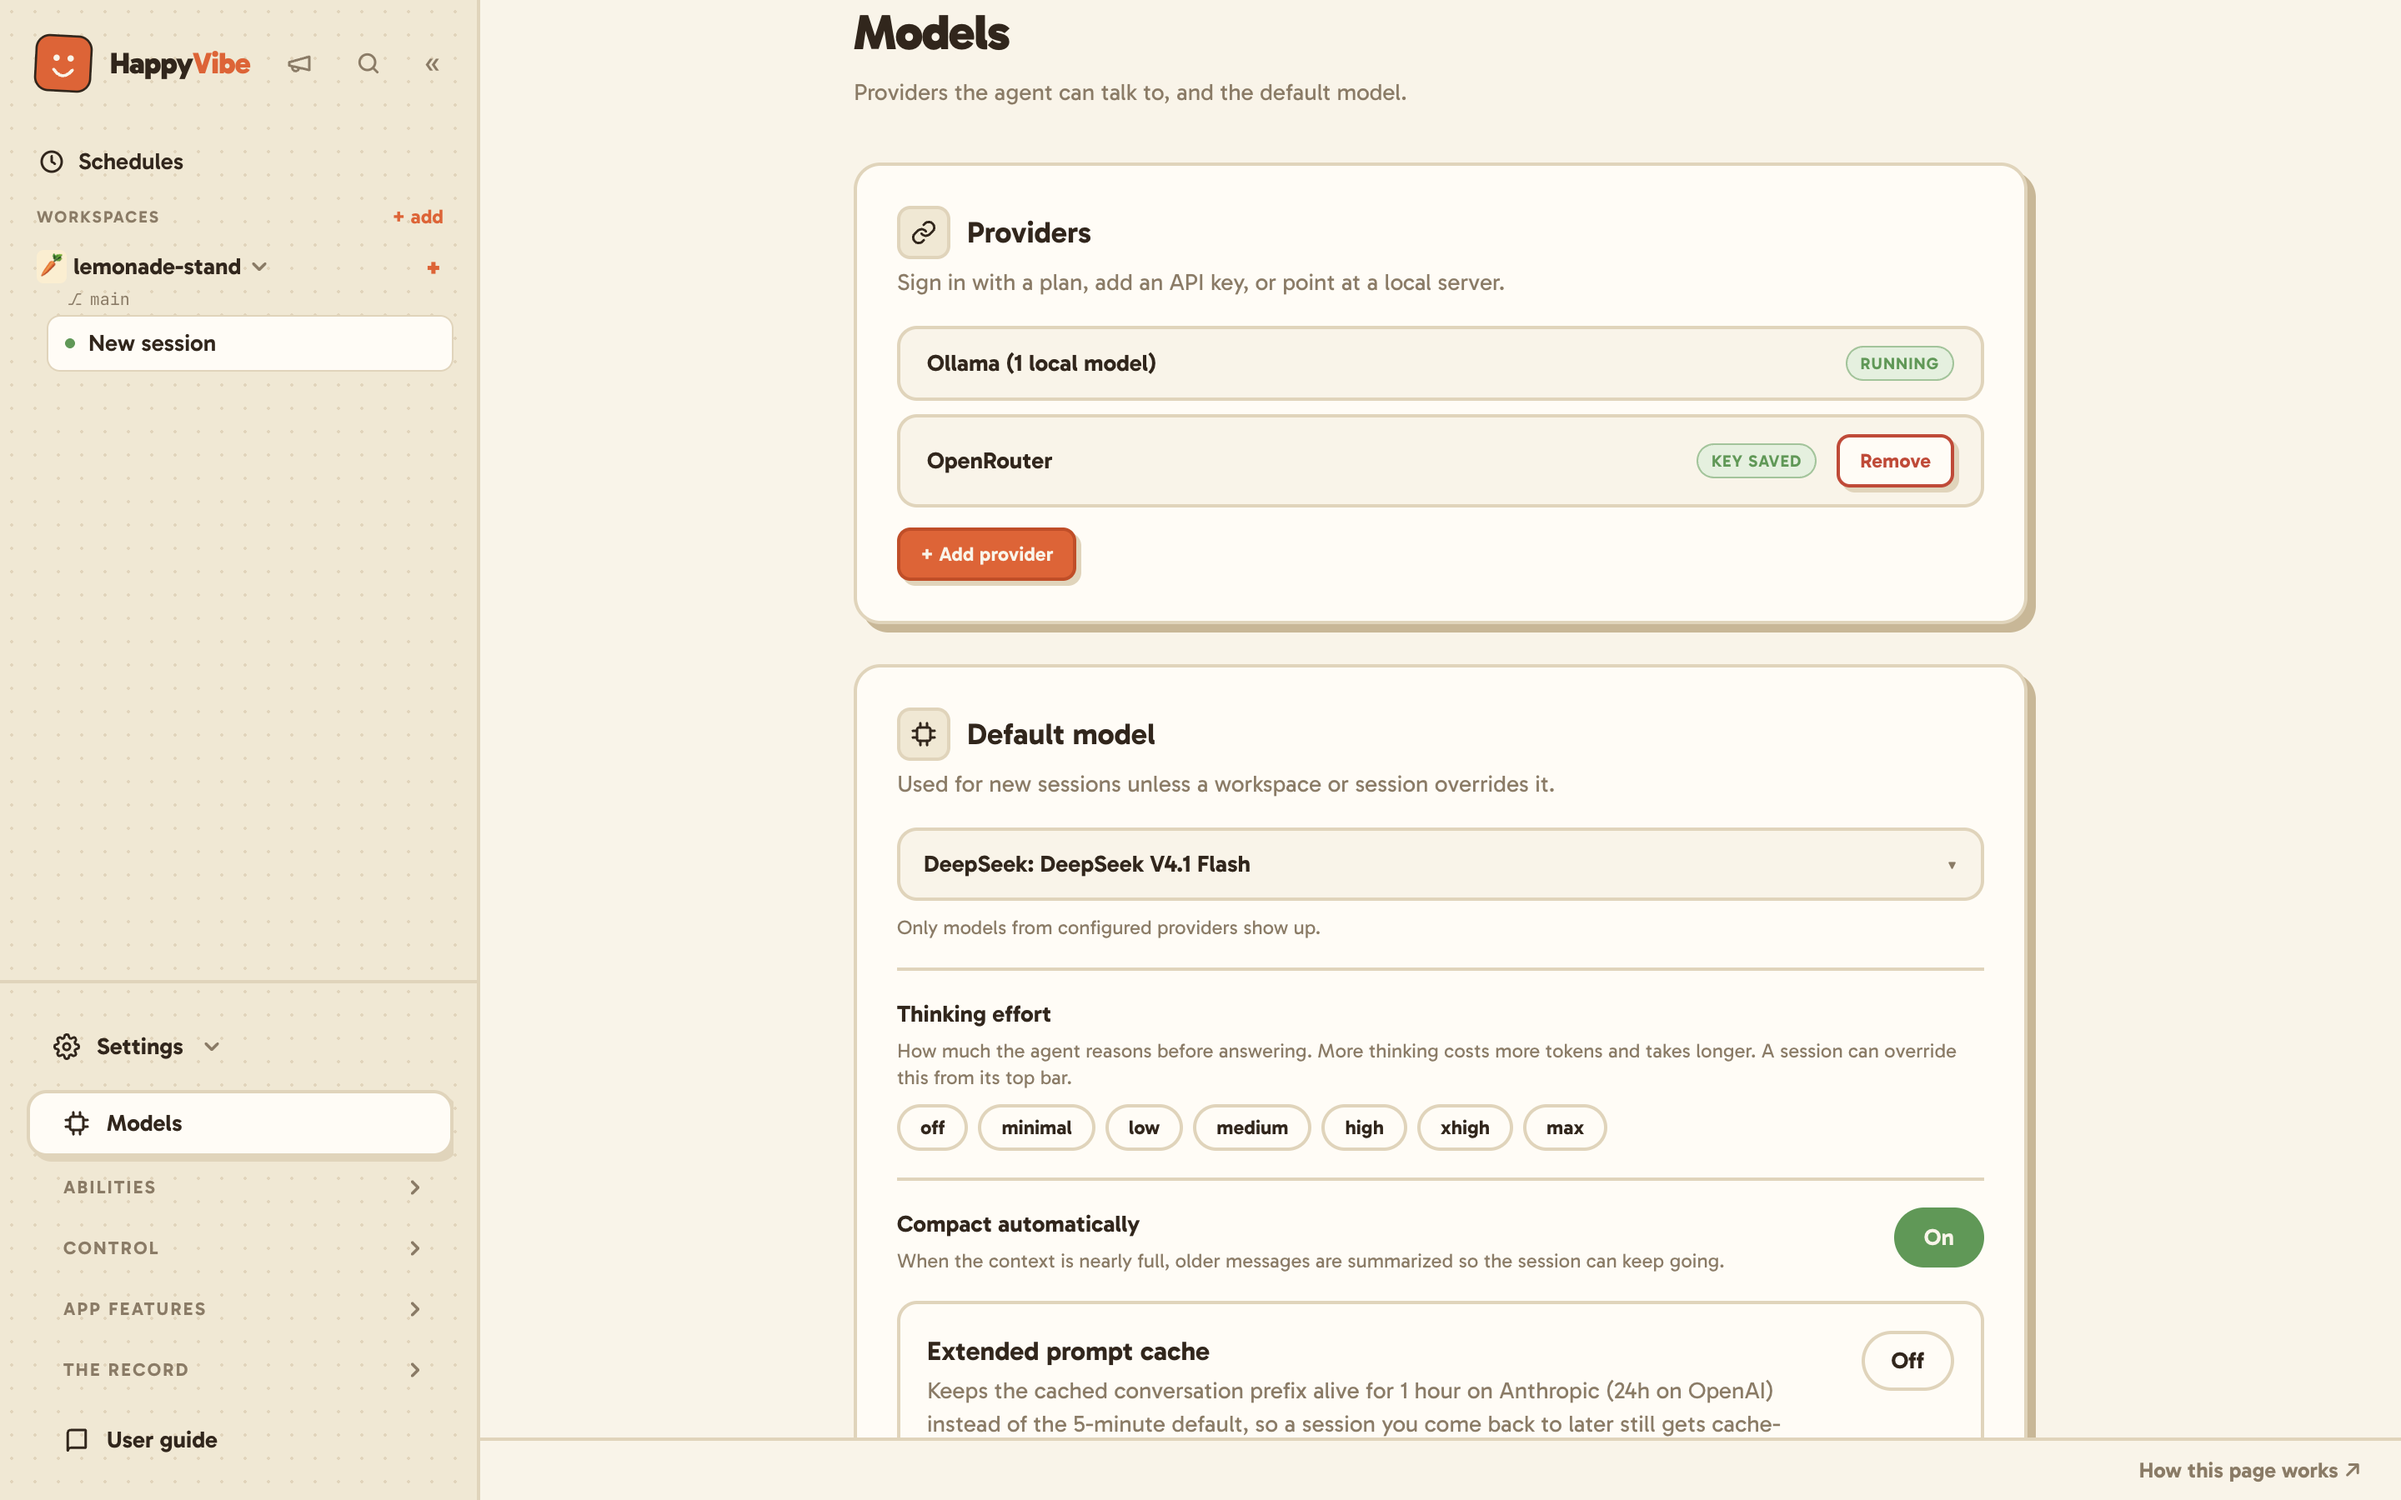
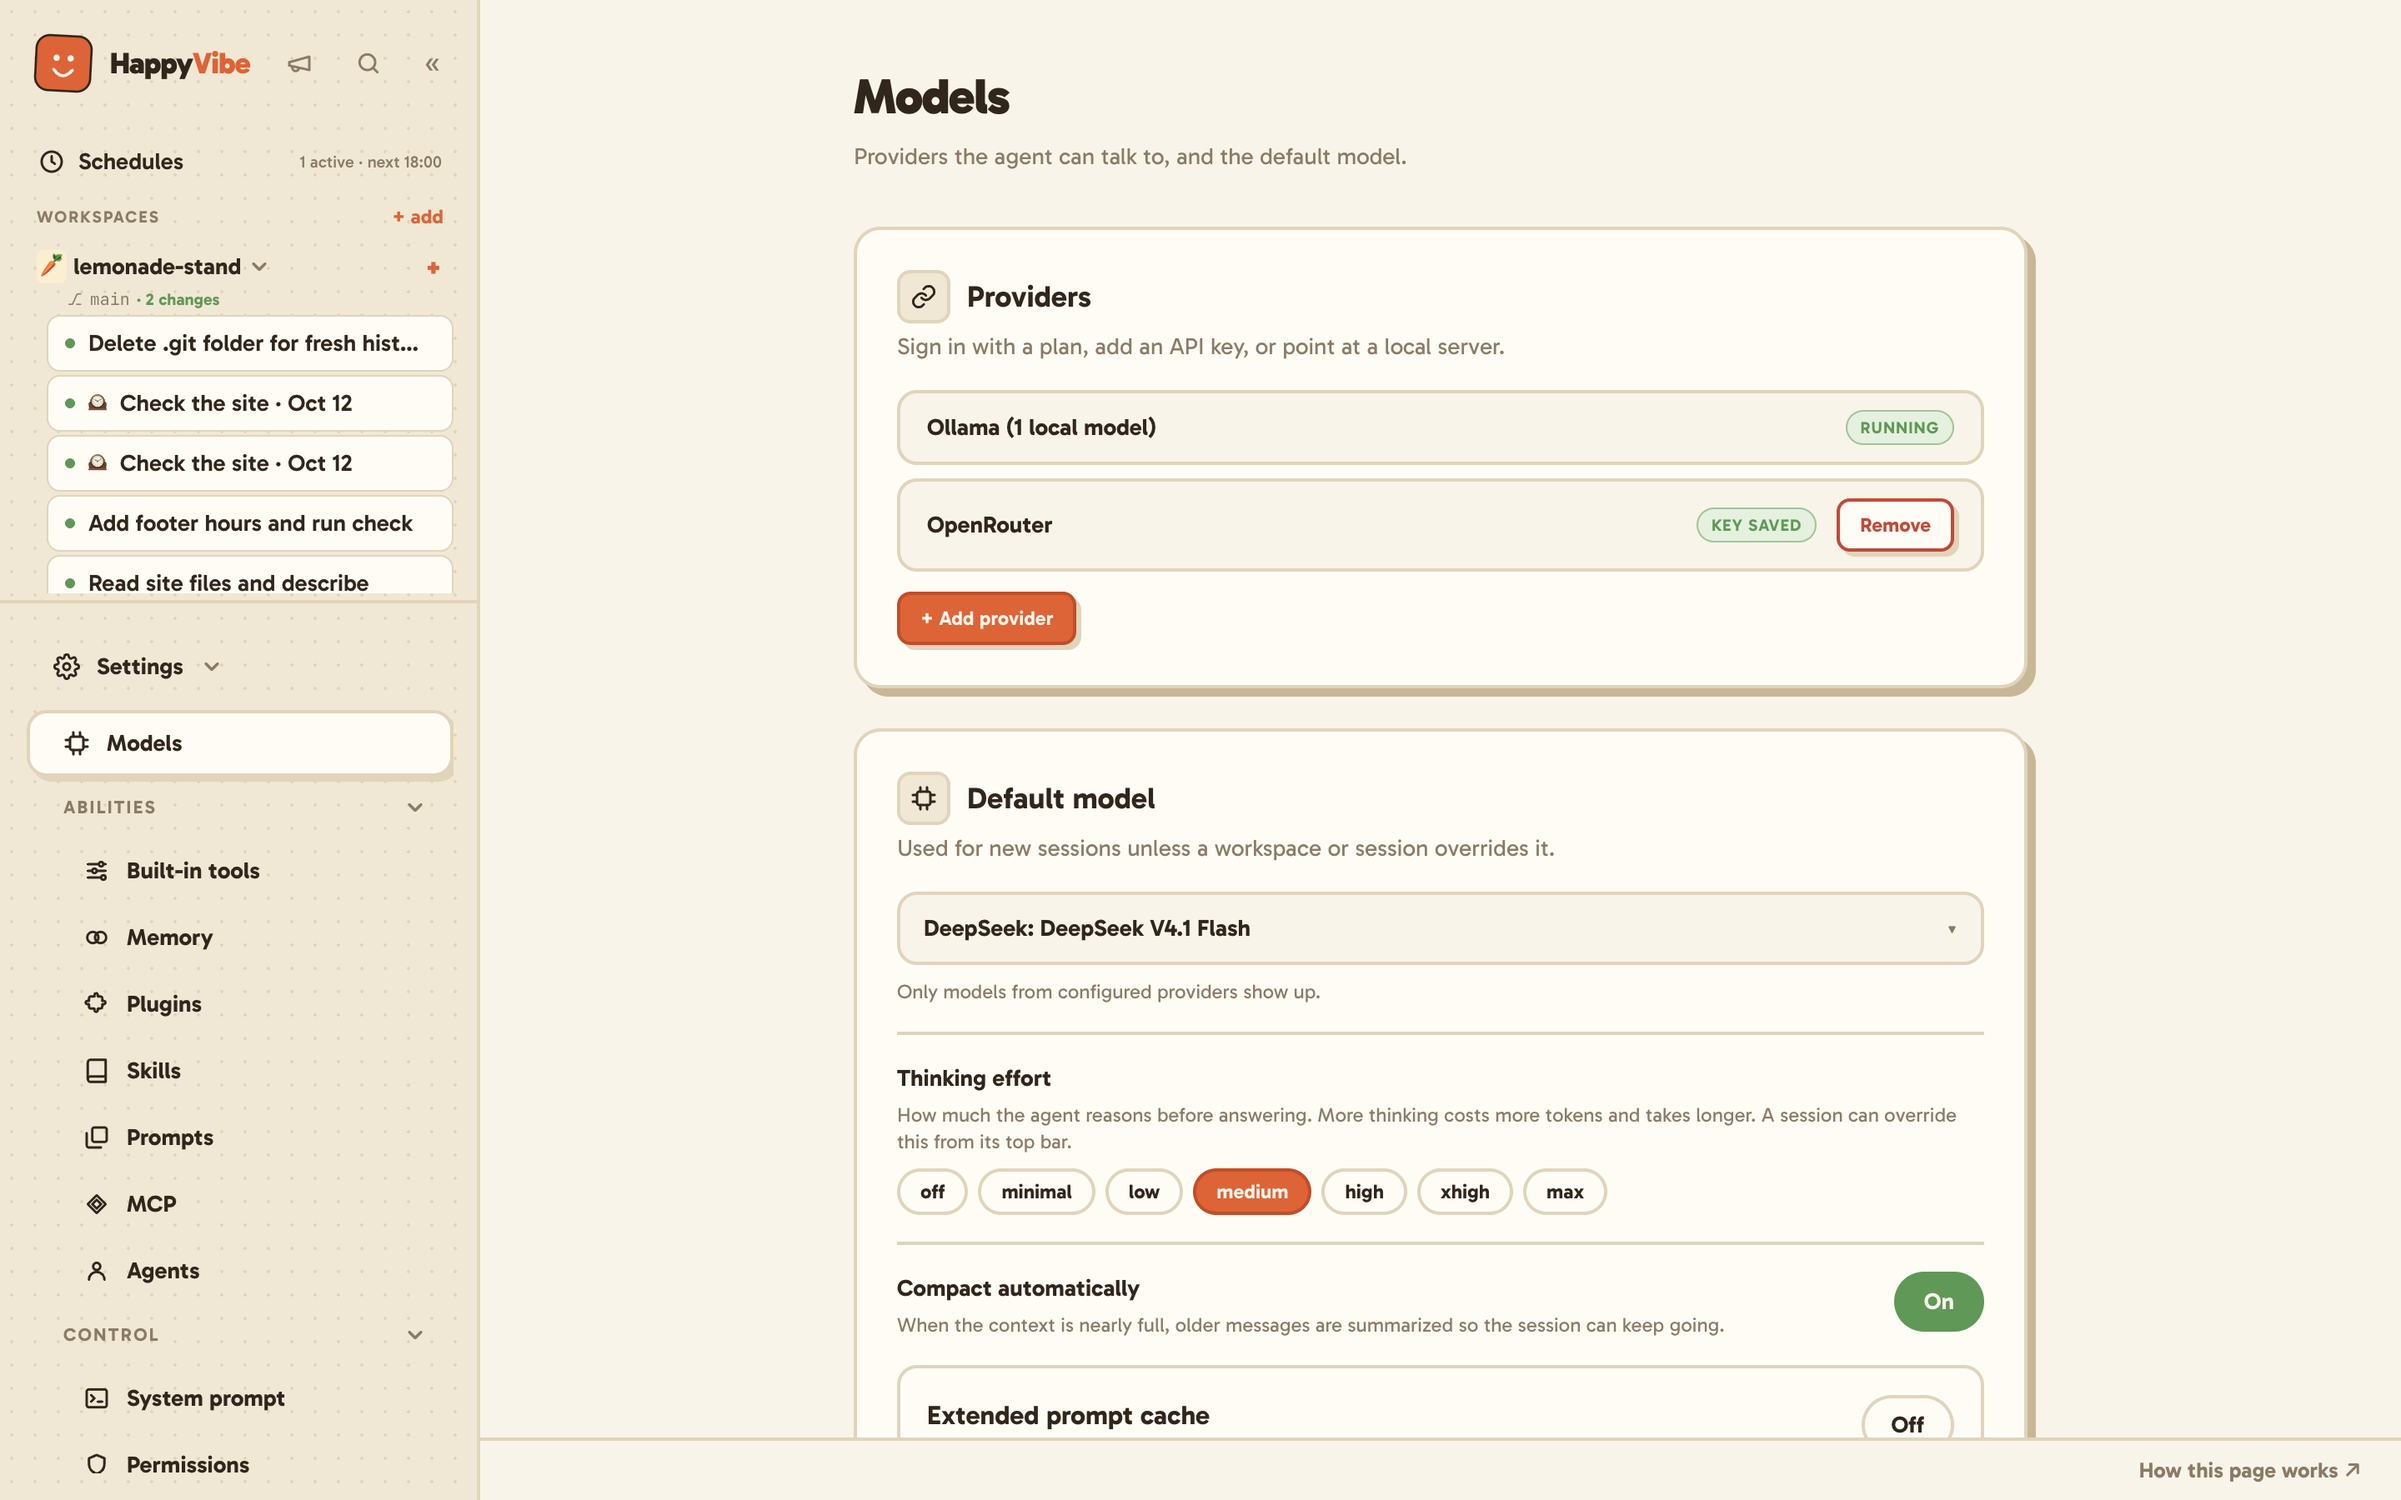
Docs: act on the media review (Models re-shot with an effort pill, alt text that matches what each shot shows, placement)
Claude-Session: https://claude.ai/code/session_01RNVPYdwePGix3NzdbdH7jW

diff --git a/.claude/rules/docs.md b/.claude/rules/docs.md
@@ -48,11 +48,11 @@ paths:
   | `install/install-smartscreen.png` | `install` | Windows SmartScreen after clicking More info, with Run anyway visible |
   | `first-launch/onboarding-setup.png` | `first-launch` | The Setup step: step 1 "Connect a model" open on its choices, with "Pick a project" and "Personalize your agent" below |
   | `first-launch/onboarding-kit.png` | `first-launch` | Step 3 "Personalize your agent" with its tiles, total and Continue button |
-  | `models/models-populated.png` | `connect-a-model`, `models` | Providers with rows tagged "signed in", "running" and "key saved"; Default model with the Thinking effort pills |
+  | `models/models-populated.png` | `connect-a-model`, `models` | Providers with rows tagged "running" and "key saved"; Default model with the Thinking effort pills |
   | `first-session/session-running.png` | `first-session` | A turn in progress: tool cards editing a file and running a command, the composer reading "Steer the agent — lands between tool calls…", the Stop button |
   | `approve-a-tool-call/permission-modal.png` | `approve-a-tool-call`, `permissions` | "The agent wants to run something" with all five buttons: Allow, Allow for session, Allow for workspace, Always allow, Deny |
-  | `approve-a-tool-call/permission-approve.{webm,mp4,jpg}` | `approve-a-tool-call` | Ask to create hello.txt, the dialog appears, click Allow, and the card turns done with its approval mark |
-  | `memory/memory-save-prompt.png` | `memory` | In a session, the approval dialog for saving a memory, with the memory and what changes |
+  | `approve-a-tool-call/permission-approve.{webm,mp4,jpg}` | `approve-a-tool-call` | Ask to create hello.txt, the dialog appears, click Allow, and the card turns done |
+  | `memory/memory-save-prompt.png` | `memory` | In a session, the approval dialog for saving a memory, with its name, kind, scope and summary |
   | `built-in-tools/builtin-tools.png` | `built-in-tools` | The Built-in tools list with its toggles, and Plan mode expanded to show its read-only prompt |
   | `plugins/plugins-marketplace.png` | `plugins` | The Marketplace: search box, category chips and the card grid |
   | `mcp/mcp-add.{webm,mp4,jpg}` | `mcp` | Pick Playwright, Add, and it connects: "Connected to Playwright" with the number of tools discovered |

diff --git a/docs/guide/src/content/docs/built-in-tools.md b/docs/guide/src/content/docs/built-in-tools.md
@@ -90,8 +90,6 @@ Before each image, the approval dialog reads "This makes an image with" the mode
 
 "The one-line “why” the model writes for each tool card." Turning it off saves the tokens (the unit models read and bill text in, roughly four characters) that sentence costs. Cards then show a label built from the call itself. Approval dialogs don't change either way: "they always show the factual action, never this sentence."
 
-![The MCP, Sub-agents and Skills switches, Workflows switched off under Sub-agents, and Core tools with a switch per tool](/docs/media/built-in-tools/builtin-switches.png)
-
 ### MCP
 
 "Lets the agent use the tools of your MCP servers." Turn it off and no server starts in any session. Your servers stay on the [MCP](/docs/mcp/) screen, which has the same switch at the top.
@@ -111,6 +109,8 @@ This row sits under **Sub-agents** and switches one of its tools: the one that r
 ### Core tools — 7 tools
 
 "Pi's own tools for reading, searching and changing files and running commands." They are `read`, `bash`, `edit`, `write`, `grep`, `find` and `ls`. On Windows without Git Bash, `powershell` takes the place of `bash`. Each one has its own switch. "A tool you turn off is gone from the agent and from every sub-agent it starts." A subagent that tries one is refused, even with **Bypass ALL permissions** on.
+
+![The MCP, Sub-agents and Skills switches, Workflows switched off under Sub-agents, and Core tools with a switch per tool](/docs/media/built-in-tools/builtin-switches.png)
 
 ### With everything off
 

diff --git a/docs/guide/src/content/docs/session-view.md b/docs/guide/src/content/docs/session-view.md
@@ -169,6 +169,8 @@ Want to try a different approach without losing this one? Fork it. The new sessi
    - **Conversation and files**: "Also roll the workspace back to before this message. This session shares those files." This option appears only when there are files to roll back, and it's hidden while the agent is working.
 4. Click **Fork**.
 
+!["Fork from this message?" with its two choices, Conversation only and Conversation and files](/docs/media/session-view/fork-dialog.png)
+
 The new session opens in a new tab, titled with "(fork)" after the original's name. Your message waits in its composer, with any documents you'd attached, ready to edit and send.
 
 - Because both sessions use the same project folder, **Conversation and files** changes this session's files too. The fork is made first, then this session's files roll back and it posts a notice like "Files rewound — 2 restored, 0 removed." If the restore can't run, the fork still exists and the notice says no files were changed.
@@ -177,7 +179,6 @@ The new session opens in a new tab, titled with "(fork)" after the original's na
 - Run cards from before the fork read "From the original session". They link to the original (plain text if it's deleted), and they don't expand.
 - Messages from before a compaction have no fork icon, because the agent no longer has them.
 
-!["Fork from this message?" with its two choices, Conversation only and Conversation and files](/docs/media/session-view/fork-dialog.png)
 
 ## Search this conversation
 

diff --git a/docs/guide/src/content/docs/audit-log.md b/docs/guide/src/content/docs/audit-log.md
@@ -30,7 +30,7 @@ Most rows are decisions: a tool call the agent wanted to make, and what happened
 
 - The decision, as a tag: allow, allow-session or deny, the same as **Allowed**, **Allowed for session** and **Denied** in the filter. Allows are green and denials are red.
 - The tool's name.
-- Who decided. For example: "rule" when one of your rules answered, "user" when you answered the approval dialog yourself, "plan" when [plan mode](/docs/built-in-tools/#start-plan-mode) did, and "sub-agent" followed by the agent's name when the call came from one of the agent's [subagents](/docs/agents/) (helpers it hands work to). When a rule matched, its pattern follows. Hover over it to see which rule it was.
+- Who decided. For example: "rule" when one of your rules answered, "user" when you answered the approval dialog yourself, "plan" when [plan mode](/docs/built-in-tools/#start-plan-mode) did, "safe default" when the tool is on the short list that runs without asking, and "sub-agent" followed by the agent's name when the call came from one of the agent's [subagents](/docs/agents/) (helpers it hands work to). When a rule matched, its pattern follows. Hover over it to see which rule it was.
 - When it happened.
 - Underneath: a summary of the call, then the workspace and the session it belongs to.
 

diff --git a/docs/guide/src/content/docs/models.md b/docs/guide/src/content/docs/models.md
@@ -17,11 +17,11 @@ Until a provider is connected, the agent has no one to talk to, so this screen g
 
 While nothing is connected yet, the list of providers is already open, and the **Default model** section is hidden until you've connected something. The app takes you on to your sessions as soon as you save a key, click **Use Ollama**, or finish a sign-in and click **Done**. The [First launch](/docs/first-launch/) and [Connect a model](/docs/connect-a-model/) pages walk through it step by step.
 
-![Providers with rows tagged "signed in", "running" and "key saved"; Default model with the Thinking effort pills](/docs/media/models/models-populated.png)
-
 ### Providers
 
 "Sign in with a plan, add an API key, or point at a local server."
+
+![Providers with rows tagged "running" and "key saved"; Default model with the Thinking effort pills](/docs/media/models/models-populated.png)
 
 At the top is a list of what you've already connected, one row each. The tag on the right of a row says what kind of connection it is:
 

diff --git a/docs/guide/src/content/docs/memory.md b/docs/guide/src/content/docs/memory.md
@@ -57,7 +57,7 @@ You say "remember that …", or the agent offers to save something it learned fr
 3. If it would replace a note you already have, the title reads "The agent wants to REPLACE this memory", and you see **what changes** instead of the whole text.
 4. Click **Allow** to save just this one, or **Deny** to keep it out. **Always allow** means future saves stop asking, so pick it only if you're happy for the agent to save notes on its own.
 
-![In a session, the approval dialog for saving a memory, with the memory and what changes](/docs/media/memory/memory-save-prompt.png)
+![In a session, the approval dialog for saving a memory, with its name, kind, scope and summary](/docs/media/memory/memory-save-prompt.png)
 
 Forgetting asks the same way: "The agent wants to forget this". Opening a note to read it never asks, since you can read every one on this screen anyway. More on the approval dialog and its other buttons in [Approve a tool call](/docs/approve-a-tool-call/).
 

diff --git a/docs/guide/src/content/docs/approve-a-tool-call.md b/docs/guide/src/content/docs/approve-a-tool-call.md
@@ -25,7 +25,7 @@ You can change what asks on [Permissions](/docs/permissions/), which also lists 
 4. Click **Allow**.
 5. The card in the session runs, then turns done, with a check whose tooltip reads "Allowed by you".
 
-<video autoplay muted loop playsinline controls poster="/docs/media/approve-a-tool-call/permission-approve.jpg" aria-label="Ask to create hello.txt, the dialog appears, click Allow, and the card turns done with its approval mark">
+<video autoplay muted loop playsinline controls poster="/docs/media/approve-a-tool-call/permission-approve.jpg" aria-label="Ask to create hello.txt, the dialog appears, click Allow, and the card turns done">
   <source src="/docs/media/approve-a-tool-call/permission-approve.webm" type="video/webm" />
   <source src="/docs/media/approve-a-tool-call/permission-approve.mp4" type="video/mp4" />
 </video>

diff --git a/docs/guide/src/content/docs/schedules.md b/docs/guide/src/content/docs/schedules.md
@@ -51,7 +51,7 @@ Click a schedule's title to open it in the drawer and change anything.
 How the last run went:
 
 - "— never ran": it hasn't run yet.
-- **✓**, then how long it took and what it cost, when HappyVibe knows the cost. A cost it doesn't know is left out, never shown as $0.00.
+- **✓**, then how long it took and what it cost, when HappyVibe knows the cost. A cost it doesn't know is left out. A known cost under a cent shows as $0.00.
 - "✕ failed:" and the reason.
 - "– skipped:" and why: "another session in the project was working" (the whole time, so the run never started), "HappyVibe was closed or asleep at that time" (you skipped the missed run, or chose **Skip it**), "nobody decided about the missed run", or "the project was removed from the sidebar" (the schedule then switches itself off).
 

diff --git a/docs/guide/src/content/docs/connect-a-model.md b/docs/guide/src/content/docs/connect-a-model.md
@@ -109,7 +109,7 @@ A key the provider accepts proves the key is right, not that the account has cre
 
 The top of the Models page lists everything you've connected, each with a tag: "signed in", "running" or "key saved". Below it, under **Default model**, you pick the model new sessions use, unless a workspace or session picks its own.
 
-![Providers with rows tagged "signed in", "running" and "key saved"; Default model with the Thinking effort pills](/docs/media/models/models-populated.png)
+![Providers with rows tagged "running" and "key saved"; Default model with the Thinking effort pills](/docs/media/models/models-populated.png)
 
 ## Next
 
